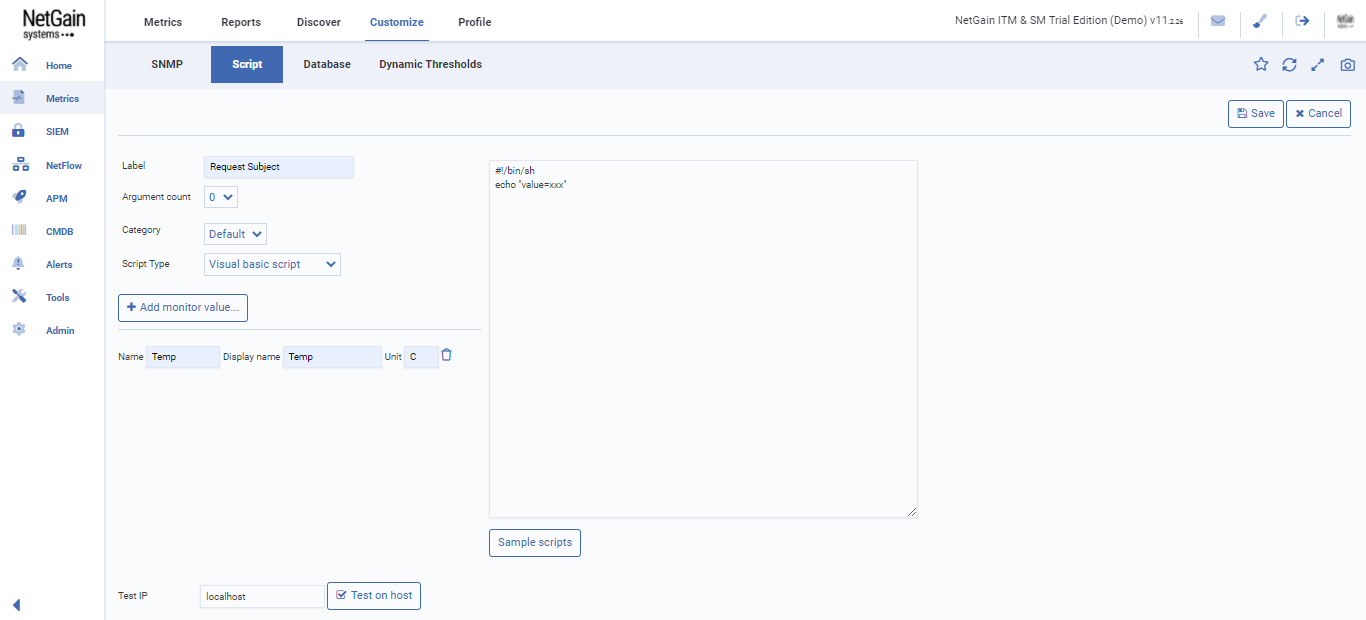
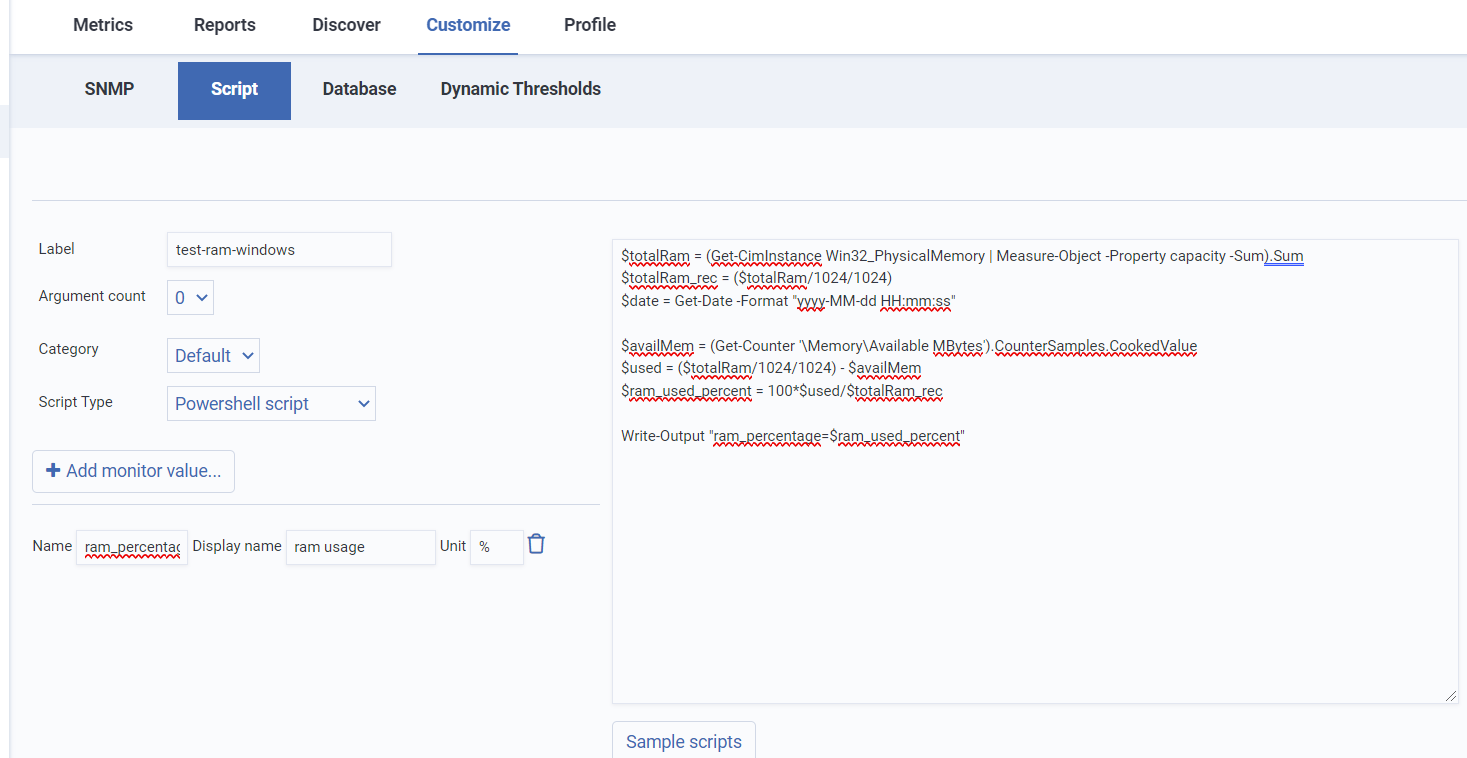
albert_14Dec_ps

diff --git a/content/cloud_vista/inframonitoring/customize/powershell-script.md b/content/cloud_vista/inframonitoring/customize/powershell-script.md
@@ -1,0 +1,35 @@
+---
+title: Customize Powershell Script
+geekdocHidden: true
+slug: powershell-script
+---
+
+This function lets the user customize different scripting methods Powershell scritps.
+
+To create Script monitor, Click \<Metrics> on the Left Navigation Bar then \<Customize> then \<Script>. Click <+Add>.
+
+![Screenshot](/cloud_vista/inframonitoring/images/{{% imagehome %}}/script1.png)
+
+&nbsp;
+
+Enter the details below and click \<save>.
+
+Label - Appropriate label for the monitor 
+
+Argument Count – Number of arguments
+
+Category – leave it as default
+
+Script Type – select Powershell 
+
+Add monitor Value – To add different parameters based from the script
+
+![Screenshot](/cloud_vista/inframonitoring/images/{{% imagehome %}}/script2.png)
+
+Back to the \<Metrics> and click to the device which installed the agent, enter edit mode and click on \<+ monitor> to add the monitor in others.
+
+![Screenshot](/cloud_vista/inframonitoring/images/{{% imagehome %}}/add_monitor.png)
+
+Click on \<manual create> 
+
+![Screenshot](/cloud_vista/inframonitoring/images/{{% imagehome %}}/manual_create.png)

diff --git a/content/cloud_vista/inframonitoring/customize/_index.md b/content/cloud_vista/inframonitoring/customize/_index.md
@@ -6,5 +6,6 @@ slug: customize
 
 * <a href="/cloud_vista/inframonitoring/customize/customizesnmp">Customize SNMP</a>
 * <a href="/cloud_vista/inframonitoring/customize/customizescript">Customize Script</a>
+  * <a href="/cloud_vista/inframonitoring/customize/powershell-script">Customize Powershell-Script</a>
 * <a href="/cloud_vista/inframonitoring/customize/customizedatabase">Customize Database</a>
 * <a href="/cloud_vista/inframonitoring/customize/customizethreshold">Customize Dynamic Threshold</a>
